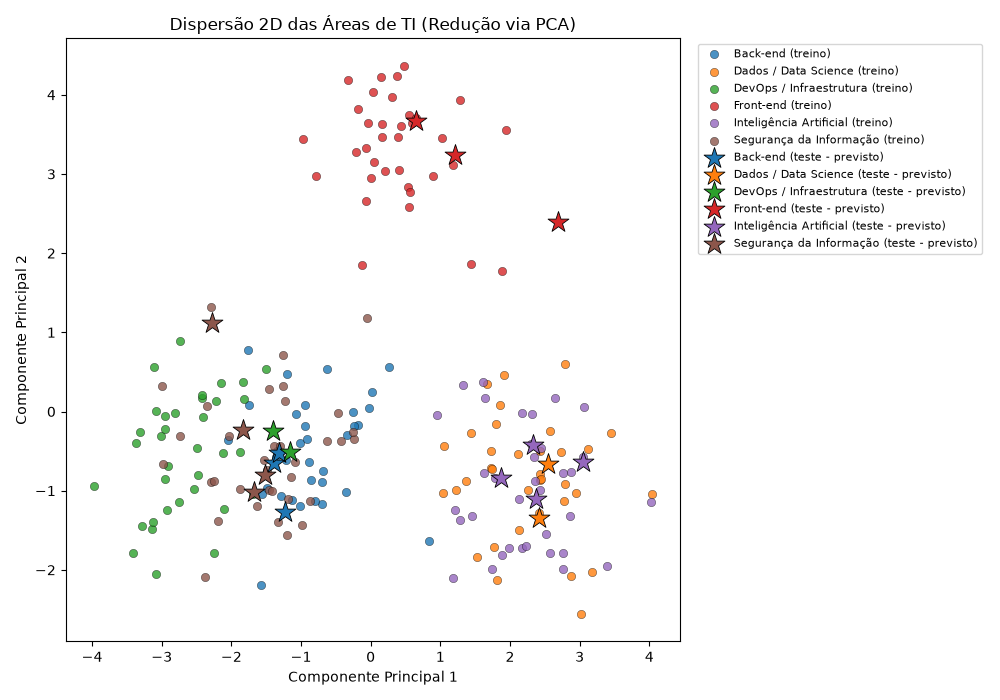
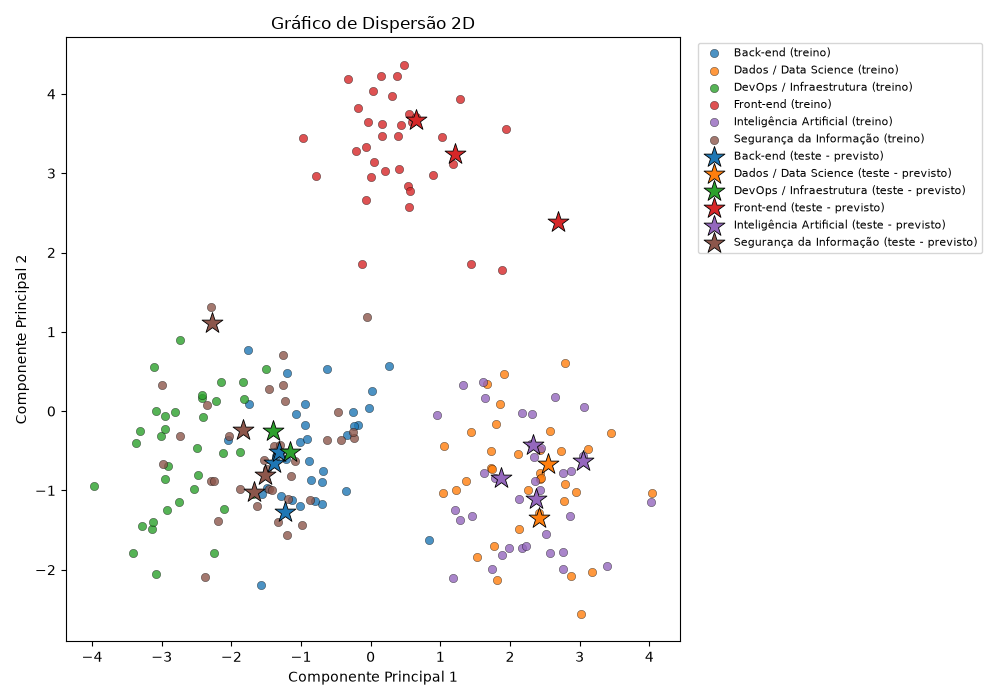
feat: ajuste de graficos exibidos

diff --git a/src/visualizacao.py b/src/visualizacao.py
@@ -6,50 +6,6 @@ from sklearn.decomposition import PCA
 from mpl_toolkits.mplot3d import Axes3D  # noqa: F401 - necessário para habilitar a projeção 3D
 
 
-def grafico_distribuicao_classes(y):
-
-    plt.figure(figsize=(9, 5))
-
-    sns.countplot(x=y, order=sorted(y.unique()))
-
-    plt.title("Distribuição das Áreas de TI (Dados de Treinamento)")
-    plt.xlabel("Área de TI")
-    plt.ylabel("Quantidade de Usuários")
-    plt.xticks(rotation=20, ha="right")
-
-    plt.tight_layout()
-
-    plt.savefig("graphs/distribuicao_classes.png")
-
-    plt.show()
-
-
-def grafico_matriz_confusao(matriz, labels):
-
-    plt.figure(figsize=(8, 6))
-
-    sns.heatmap(
-        matriz,
-        annot=True,
-        fmt="d",
-        cmap="Blues",
-        xticklabels=labels,
-        yticklabels=labels
-    )
-
-    plt.title("Matriz de Confusão")
-    plt.xlabel("Área Prevista")
-    plt.ylabel("Área Real")
-    plt.xticks(rotation=20, ha="right")
-    plt.yticks(rotation=0)
-
-    plt.tight_layout()
-
-    plt.savefig("graphs/matriz_confusao.png")
-
-    plt.show()
-
-
 def _reduzir_dimensionalidade(X_treino, X_teste, n_componentes):
     """
     Reduz as 10 características do questionário (q1..q10) para n_componentes
@@ -110,7 +66,7 @@ def grafico_dispersao_2d(X_treino, y_treino, X_teste, y_teste_predita):
                 linewidth=0.6
             )
 
-    plt.title("Dispersão 2D das Áreas de TI (Redução via PCA)")
+    plt.title("Gráfico de Dispersão 2D")
     plt.xlabel("Componente Principal 1")
     plt.ylabel("Componente Principal 2")
     plt.legend(bbox_to_anchor=(1.02, 1), loc="upper left", fontsize=8)
@@ -161,7 +117,7 @@ def grafico_dispersao_3d(X_treino, y_treino, X_teste, y_teste_predita):
                 linewidth=0.6
             )
 
-    eixo.set_title("Dispersão 3D das Áreas de TI (Redução via PCA)")
+    eixo.set_title("Gráfico de Dispersão 3D")
     eixo.set_xlabel("Componente Principal 1")
     eixo.set_ylabel("Componente Principal 2")
     eixo.set_zlabel("Componente Principal 3")

diff --git a/main.py b/main.py
@@ -19,8 +19,6 @@ from src.avaliacao import avaliar_modelo
 from src.previsao import prever_area_ti
 
 from src.visualizacao import (
-    grafico_distribuicao_classes,
-    grafico_matriz_confusao,
     grafico_dispersao_2d,
     grafico_dispersao_3d
 )
@@ -49,8 +47,6 @@ def main():
 
     print(f"\nÁreas de TI identificadas nos dados: {sorted(y.unique())}")
 
-    grafico_distribuicao_classes(y)
-
     # ----- 3. Dividir dados para treinamento/avaliação do modelo -----
 
     (
@@ -71,14 +67,12 @@ def main():
 
     # ----- 5. Avaliar o modelo treinado -----
 
-    _, matriz, labels = avaliar_modelo(
+    avaliar_modelo(
         modelo,
         scaler,
         X_teste_validacao,
         y_teste_validacao
     )
-
-    grafico_matriz_confusao(matriz, labels)
 
     # ----- 6. Carregar dados reais do quiz (dados_teste) -----
 

diff --git a/README.md b/README.md
@@ -12,8 +12,6 @@ machine-learning-svm/
 │   ├── dados_treinamento.xlsx   # Base histórica: q1..q10 + area_ti_atual (rótulo conhecido)
 │   └── dados_teste.xlsx         # Respostas reais do quiz: q1..q10 (sem rótulo conhecido)
 ├── graphs/                      # Gráficos gerados pela execução
-│   ├── distribuicao_classes.png
-│   ├── matriz_confusao.png
 │   ├── dispersao_2d.png
 │   └── dispersao_3d.png
 ├── src/
@@ -22,7 +20,7 @@ machine-learning-svm/
 │   ├── modelo_svm.py            # Divisão treino/validação, escala e treinamento do SVM
 │   ├── avaliacao.py             # Métricas de avaliação do modelo
 │   ├── previsao.py              # Previsão da área de TI para dados reais do quiz
-│   └── visualizacao.py          # Geração dos gráficos (distribuição, matriz, PCA 2D/3D)
+│   └── visualizacao.py          # Geração dos gráficos de dispersão PCA 2D/3D
 ├── main.py                      # Orquestra o pipeline de ponta a ponta
 └── requirements.txt
 ```
@@ -45,7 +43,7 @@ Em ambas, `id_usuario` e `data_hora` servem apenas para identificação/controle
 5. **Avalia** o modelo no conjunto de validação (acurácia, matriz de confusão, classification report).
 6. **Carrega e valida** `dados_teste.xlsx` (respostas reais do quiz, sem rótulo).
 7. **Aplica o mesmo `StandardScaler`** ajustado no treino e **prevê** a `area_ti_predita` de cada usuário real.
-8. **Gera gráficos**: distribuição das classes, matriz de confusão e dispersão 2D/3D (via PCA) com treino e teste identificáveis.
+8. **Gera os gráficos** "Gráfico de Dispersão 2D" e "Gráfico de Dispersão 3D" (via PCA), com treino e teste identificáveis.
 
 ## Principais módulos
 
@@ -70,9 +68,7 @@ Aplica o `scaler` já ajustado no treino, gera previsões e calcula `accuracy_sc
 Aplica o mesmo pré-processamento do treinamento às respostas reais do quiz (`dados_teste`) e retorna uma cópia do `DataFrame` com a coluna `area_ti_predita` preenchida pelo modelo.
 
 ### `src/visualizacao.py`
-- **`grafico_distribuicao_classes(y)`**: contagem de usuários por área de TI nos dados de treinamento.
-- **`grafico_matriz_confusao(matriz, labels)`**: heatmap da matriz de confusão com os nomes das áreas de TI.
-- **`grafico_dispersao_2d` / `grafico_dispersao_3d`**: reduzem as 10 respostas (`q1`..`q10`) para 2 ou 3 dimensões via `PCA`, plotando treino (círculos) e previsões reais do quiz (estrelas) coloridos por área de TI, permitindo visualizar agrupamentos e a separação entre classes.
+- **`grafico_dispersao_2d` / `grafico_dispersao_3d`**: reduzem as 10 respostas (`q1`..`q10`) para 2 ou 3 dimensões via `PCA`, plotando treino (círculos) e previsões reais do quiz (estrelas) coloridos por área de TI, permitindo visualizar agrupamentos e a separação entre classes. Títulos: "Gráfico de Dispersão 2D" e "Gráfico de Dispersão 3D".
 
 ## Como executar
 
@@ -90,15 +86,13 @@ pip install -r requirements.txt
 python main.py
 ```
 
-A execução imprime no console a validação/análise dos dados de treinamento, a divisão treino/validação, as métricas de avaliação do modelo e a `area_ti_predita` para cada usuário de `dados_teste.xlsx`, além de salvar os quatro gráficos na pasta `graphs/` (as janelas de plot também abrem interativamente, caso o ambiente suporte).
+A execução imprime no console a validação/análise dos dados de treinamento, a divisão treino/validação, as métricas de avaliação do modelo e a `area_ti_predita` para cada usuário de `dados_teste.xlsx`, além de salvar os dois gráficos de dispersão na pasta `graphs/` (as janelas de plot também abrem interativamente, caso o ambiente suporte).
 
 ## Resultados entregues
 
 - **Console**: validação e análise exploratória de `dados_treinamento.xlsx`, tamanho dos conjuntos de treino/validação, acurácia/matriz de confusão/`classification_report` do modelo, e a tabela final com `id_usuario`, `data_hora`, `q1`..`q10` e `area_ti_predita` para cada usuário de `dados_teste.xlsx`.
 - **Gráficos** (pasta `graphs/`):
-  - [`distribuicao_classes.png`](graphs/distribuicao_classes.png) — balanceamento das áreas de TI nos dados de treinamento.
-  - [`matriz_confusao.png`](graphs/matriz_confusao.png) — desempenho do classificador no conjunto de validação.
-  - [`dispersao_2d.png`](graphs/dispersao_2d.png) — projeção 2D (PCA) dos dados, com treino e previsões reais identificáveis por classe.
-  - [`dispersao_3d.png`](graphs/dispersao_3d.png) — projeção 3D (PCA) dos dados, com treino e previsões reais identificáveis por classe.
+  - [`dispersao_2d.png`](graphs/dispersao_2d.png) — "Gráfico de Dispersão 2D": projeção 2D (PCA) dos dados, com treino e previsões reais identificáveis por classe.
+  - [`dispersao_3d.png`](graphs/dispersao_3d.png) — "Gráfico de Dispersão 3D": projeção 3D (PCA) dos dados, com treino e previsões reais identificáveis por classe.
 
 > **Observação:** `data/dados_treinamento.xlsx` e `data/dados_teste.xlsx` contêm dados sintéticos gerados para fins didáticos, com o objetivo de demonstrar o fluxo completo de Machine Learning supervisionado (carregamento, validação, pré-processamento, treinamento, avaliação, previsão e visualização). Os resultados numéricos não devem ser interpretados como desempenho em um cenário de produção com dados reais de usuários.
